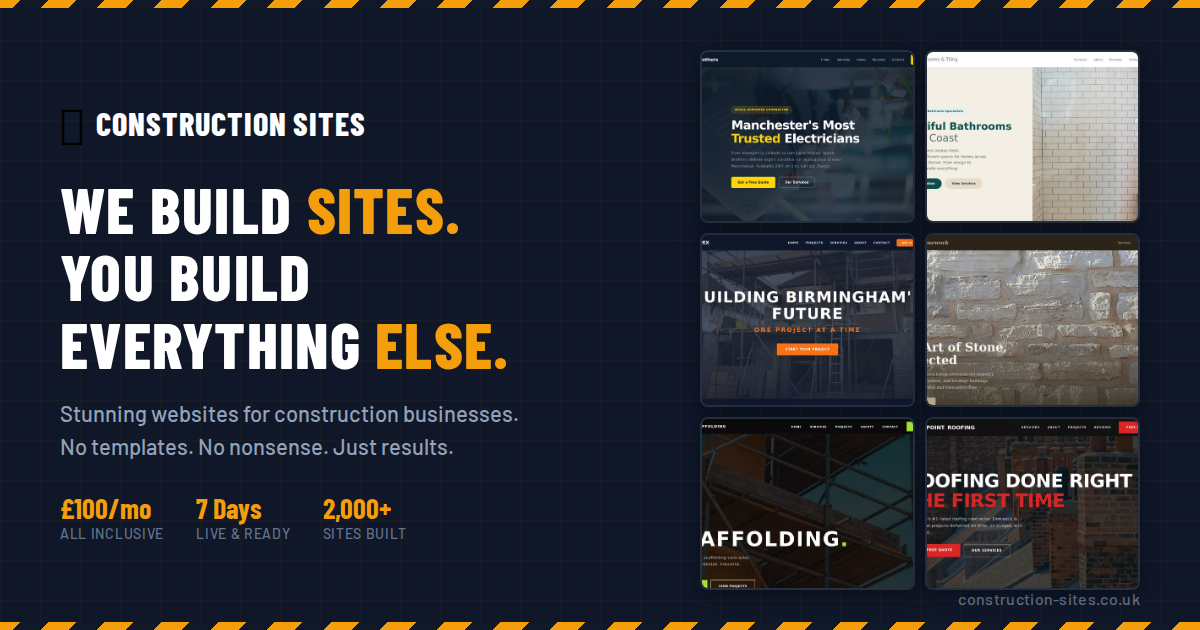
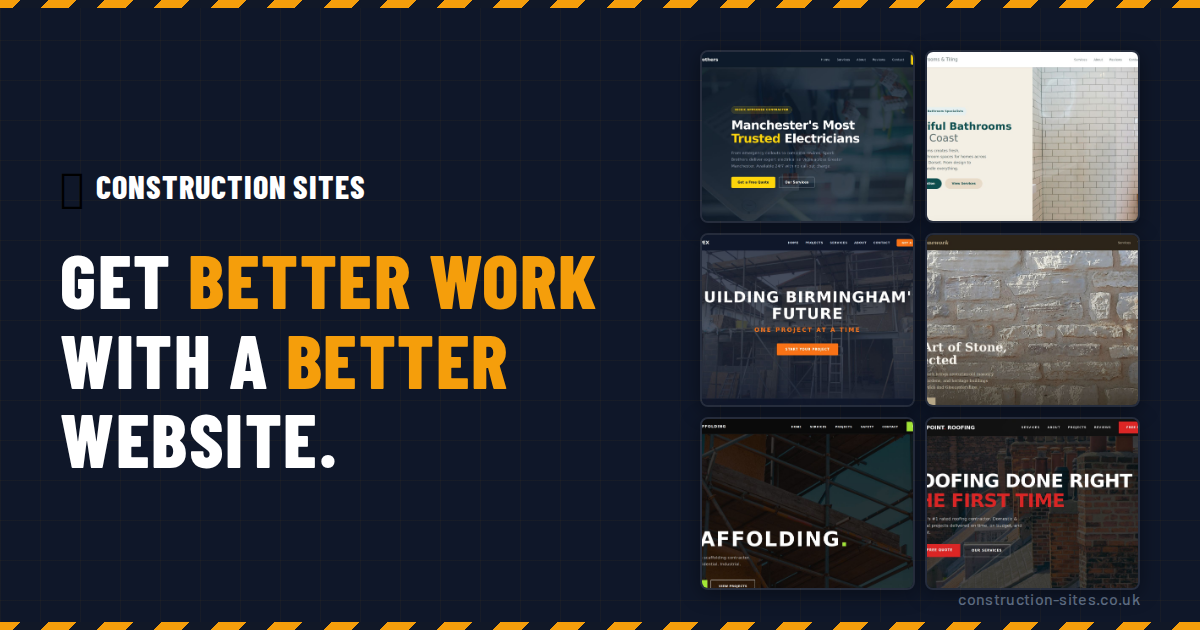
Make OG preview more sales-led: Get Better Work with a Better Website
Strip details from preview description, keep it punchy for iMessage/WhatsApp/LinkedIn shares.

diff --git a/src/app/layout.tsx b/src/app/layout.tsx
@@ -55,9 +55,9 @@ export const metadata: Metadata = {
     locale: "en_GB",
     url: "https://construction-sites.co.uk",
     siteName: "Construction Sites",
-    title: "Construction Sites | Websites for Construction Businesses",
+    title: "Get Better Work with a Better Website",
     description:
-      "We build stunning websites for construction businesses. £100/month. No contracts. Live in 7 days. Your phone starts ringing.",
+      "Construction Sites. We build sites. You build everything else.",
     images: [
       {
         url: "https://construction-sites.co.uk/og-image.png",
@@ -69,9 +69,9 @@ export const metadata: Metadata = {
   },
   twitter: {
     card: "summary_large_image",
-    title: "Construction Sites | Websites for Construction Businesses",
+    title: "Get Better Work with a Better Website",
     description:
-      "We build stunning websites for construction businesses. £100/month. No contracts. Live in 7 days. Your phone starts ringing.",
+      "Construction Sites. We build sites. You build everything else.",
     images: ["https://construction-sites.co.uk/og-image.png"],
   },
   robots: {
